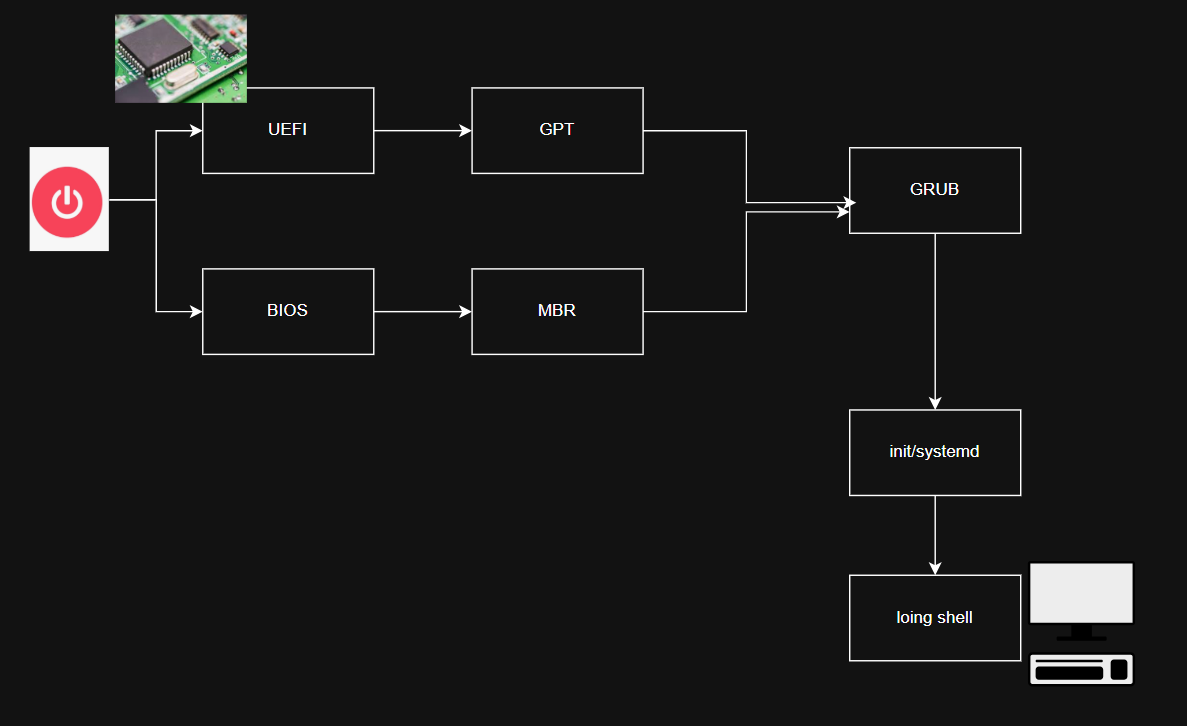
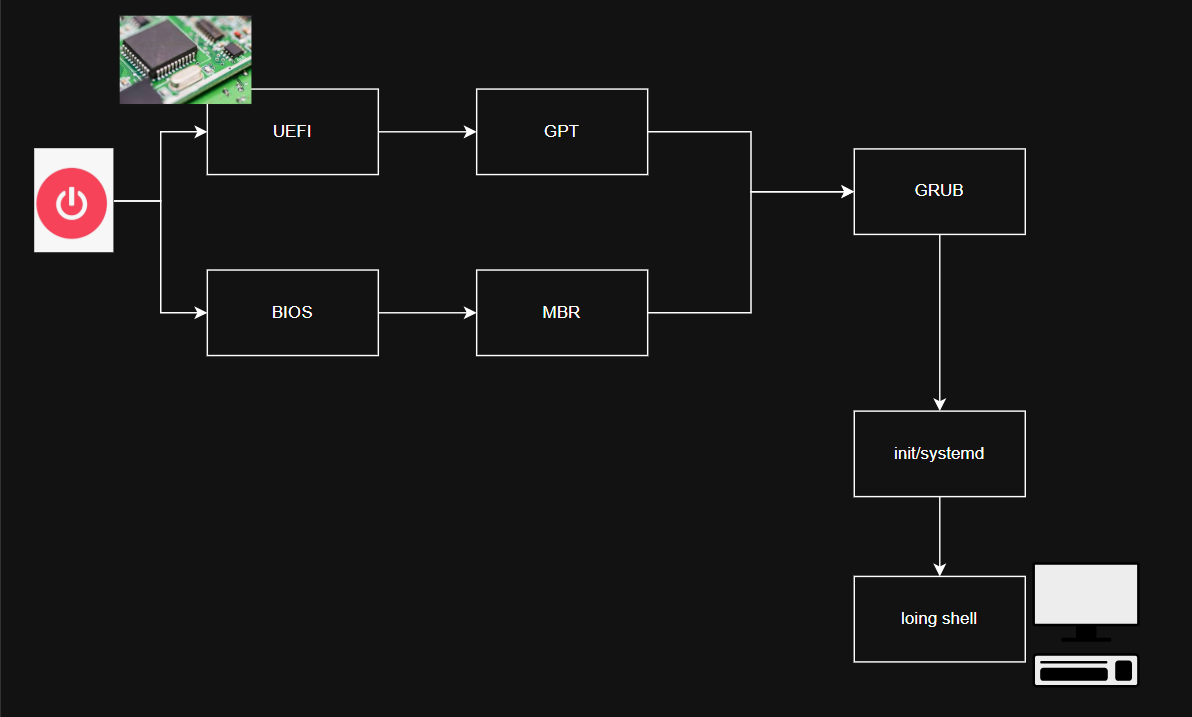
added changes

diff --git a/march30.md b/march30.md
@@ -40,9 +40,9 @@ SSYTEM WORKS OR NOT
 
 * what is kernel 
 
-- Kernel is heart of the linux 
+# Kernel is heart of the linux 
 
-![alt text](image.png)
+![alt text](Images/image5.png)
 
 # what is kerenl
 
